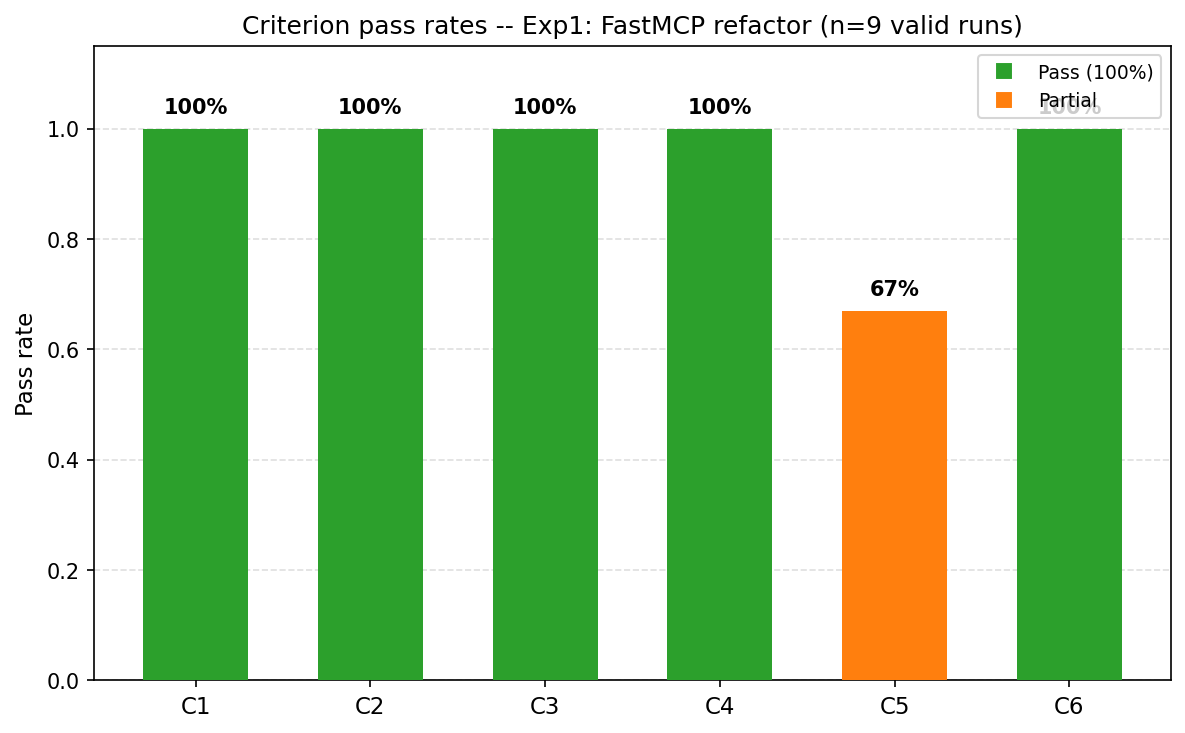
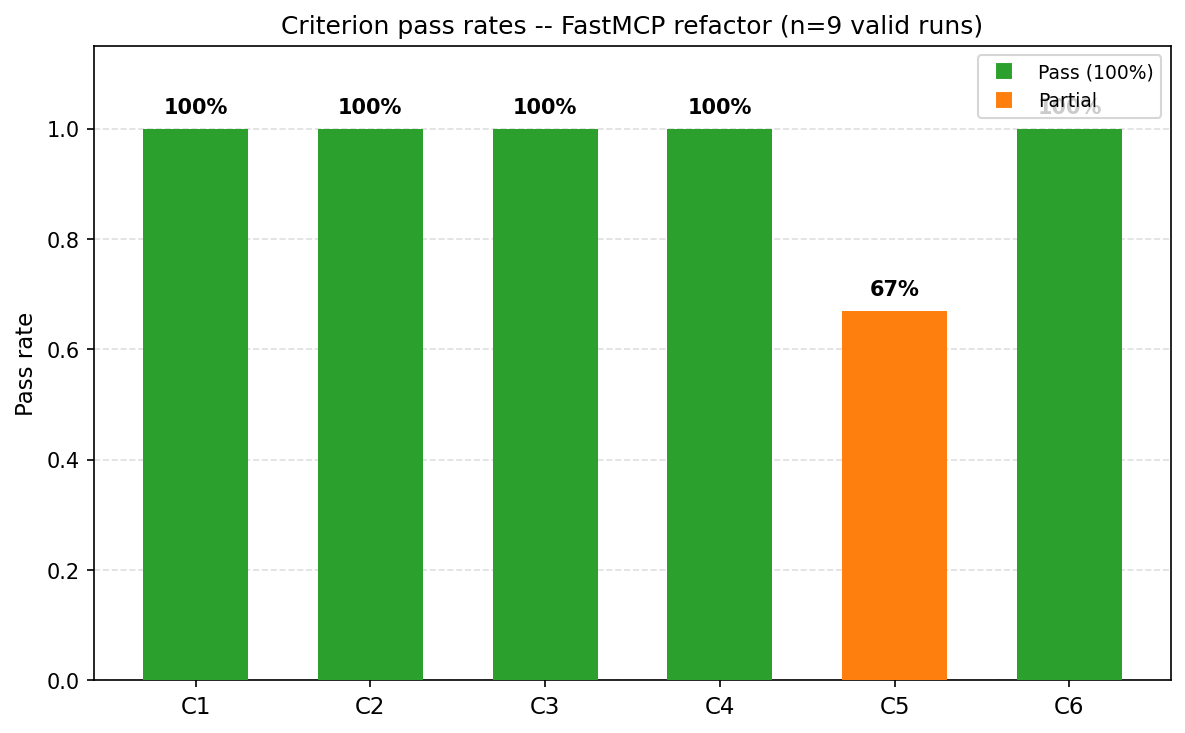
fix(figures): remove grid lines from fig1, remove Exp1 prefix from fig2 title

Changed region(s): [[0.2186, 0.0, 0.8743, 0.06]]

diff --git a/figures/fig2-criterion-pass-rates.py b/figures/fig2-criterion-pass-rates.py
@@ -14,7 +14,7 @@ bars = ax.bar(range(6), rates, color=colors, width=0.6, zorder=3)
 
 # Axis labels and title
 ax.set_ylabel('Pass rate', fontsize=11)
-ax.set_title('Criterion pass rates -- Exp1: FastMCP refactor (n=9 valid runs)', fontsize=12)
+ax.set_title('Criterion pass rates -- FastMCP refactor (n=9 valid runs)', fontsize=12)
 ax.set_ylim(0, 1.15)
 ax.yaxis.grid(True, linestyle='--', alpha=0.4, zorder=0)
 ax.set_axisbelow(True)

diff --git a/figures/fig1-token-distribution.py b/figures/fig1-token-distribution.py
@@ -17,7 +17,6 @@ ax.set_ylabel("Mean total tokens (valid runs)", fontsize=11)
 ax.set_title("Token usage by group -- Exp1 (FastMCP refactor) and Exp2 (tree-sitter synthesis)", fontsize=12)
 # Y limits and grid
 ax.set_ylim(0, 1.3e6)
-ax.yaxis.grid(True, linestyle="--", alpha=0.4, zorder=0)
 ax.set_axisbelow(True)
 # X ticks
 ax.set_xticks(range(4))
